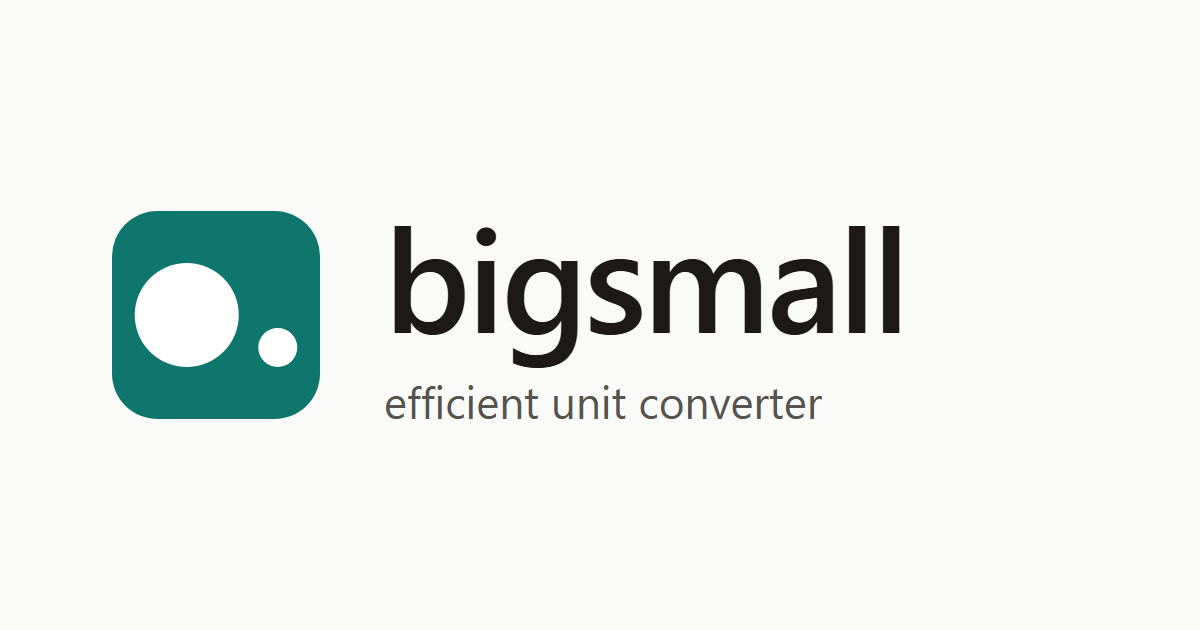
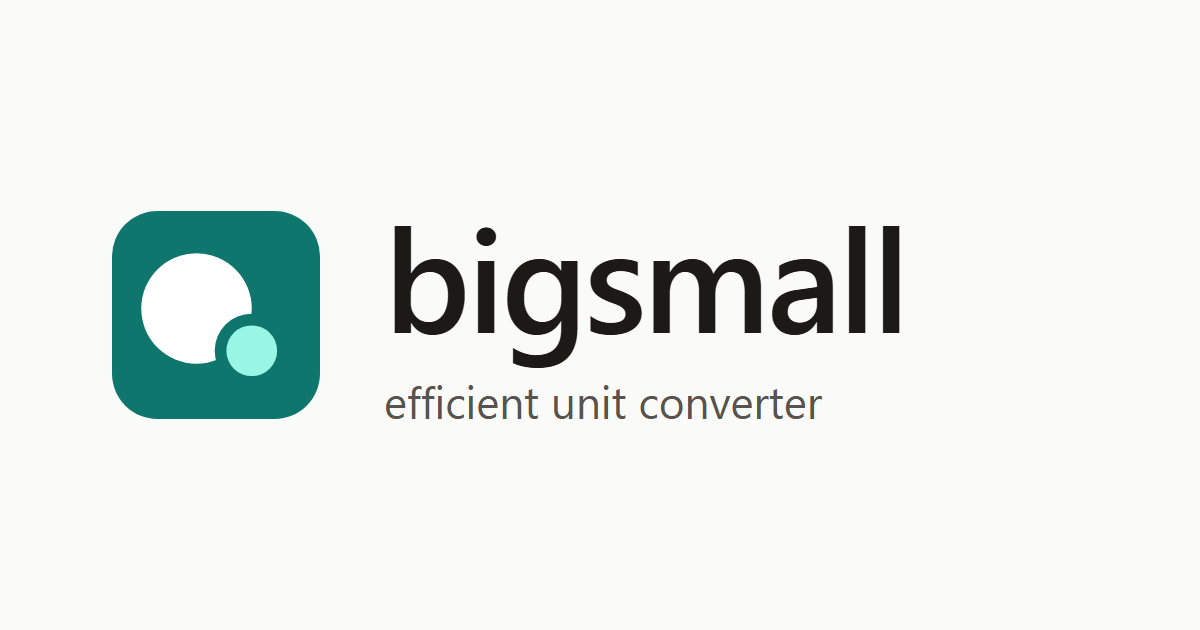
feat(web): the mark is R6, a small circle in front of a big one
Sean chose R6 from the logo canvas's first round (2026-10-15). The brand
script draws it into the tab icon, the home-screen icon, and the link
preview: a ring in the tile's color sets the small circle in front, 1.8
units wide so it still shows at 16 px, and the small circle takes the
canvas's mint, which accent-soft cannot stand in for at that size.

A trial in its own commit: reverting it brings the first mark back.

Changed region(s): [[0.1233, 0.3921, 0.2467, 0.6032], [0.0925, 0.4524, 0.1233, 0.5429]]

diff --git a/apps/web/src/lib/site.ts b/apps/web/src/lib/site.ts
@@ -15,7 +15,7 @@ export const SITE = {
   /** The link preview image, 1200 × 630, in public/. */
   image: '/og.png',
   imageAlt:
-    'The bigsmall mark, a big circle and a small one, beside the name and “efficient unit converter”.',
+    'The bigsmall mark, a big circle with a small one in front, beside the name and “efficient unit converter”.',
 } as const;
 
 /**

diff --git a/docs/DESIGN-SYSTEM.md b/docs/DESIGN-SYSTEM.md
@@ -290,7 +290,7 @@ A design question with a few answers gets a prototype lab instead, each answer b
 
 ## Brand assets
 
-The mark is a big circle and a small one on one baseline, on a rounded tile in the accent: it reads like the name, big then small. `apps/web/scripts/brand-assets.mjs` draws it, and everything made from it, from the Daylight theme's tokens into `apps/web/public/`:
+The mark is a big circle with a small one in front of it, on a rounded tile in the accent: it reads like the name, big then small, the small one nearer. A ring in the tile's color sets the small circle apart, 1.8 units of the tile's 32 so it still shows at 16 px, and the small circle takes the mark's own mint, `#99f6e4`, the one color not from a token: `accent-soft` blends into the white beside it at 16 px. `apps/web/scripts/brand-assets.mjs` draws it, and everything made from it, from the Daylight theme's tokens into `apps/web/public/`:
 
 | File                   | Use                                                                                                                                     |
 | ---------------------- | --------------------------------------------------------------------------------------------------------------------------------------- |
@@ -299,7 +299,7 @@ The mark is a big circle and a small one on one baseline, on a rounded tile in t
 | `apple-touch-icon.png` | The home-screen icon on iOS: 180 px and square, since iOS rounds the corners itself                                                     |
 | `og.png`               | The link preview, 1200 × 630: the mark beside the name and the line under it (`SITE.tagline` in `src/lib/site.ts`), in the display face |
 
-Run `pnpm --filter @bigsmall/web brand` after changing the mark, the Daylight colors, the name, or the tagline, and commit what it writes. The files are images, so the token guard does not reach them; their colors come from the theme file. Introduced 2026-10-07 as a trial in its own commit: reverting it leaves the browser's default icon and no preview image.
+Run `pnpm --filter @bigsmall/web brand` after changing the mark, the Daylight colors, the name, or the tagline, and commit what it writes. The files are images, so the token guard does not reach them; their colors come from the theme file. Introduced 2026-10-07 as a trial in its own commit: reverting it leaves the browser's default icon and no preview image. The mark is R6 from the logo canvas's first round (Sean, 2026-10-15), in place of the first one, two circles side by side on one baseline: a trial in its own commit, which a revert takes back.
 
 ## Adding a component
 
